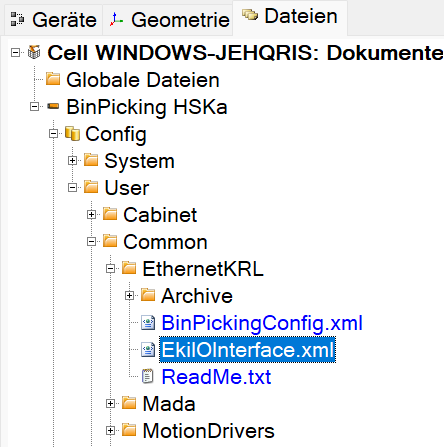
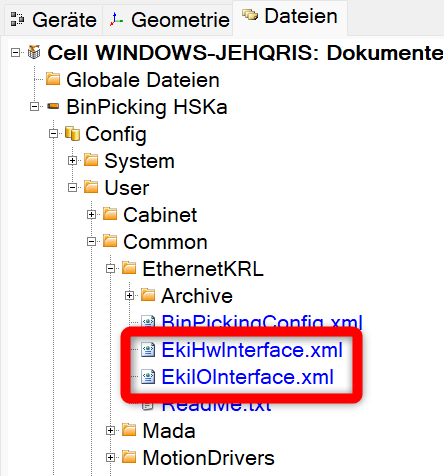
Aktualisiere das Bild 20240220_EKI_Baum.png

Changed region(s): [[0.0293, 0.0872, 1.0, 0.9888], [0.0293, 0.0291, 0.527, 0.0582], [0.5563, 0.0, 0.7613, 0.0582]]

diff --git a/docs/how_to_configure_robot_control.md b/docs/how_to_configure_robot_control.md
@@ -45,7 +45,7 @@ The byteorder indicates how the single Bytes are stored in the controller memory
 
 The number of bytes and bits used must also be adjusted. For example, reed contacts only use one bit, while the measured value of the pressure sensor is transferred with one byte. Additionally, the pressure sensor also uses individual bits. The number of bits can be adjusted by dragging the line on the right-hand side. The information on how the modules are integrated can be found in the data sheets.
 
-Once the inputs and outputs have been integrated, they still need to be created in the KUKA Smartpad. To do this, the "Long text editor" must be selected in the "Editors" tab in WorkVisual. The variable name can be entered here in the previously assigned position. Once the programm has been uploaded to the controller, the created variables are visible and can be read or controlled.
+Once the inputs and outputs have been integrated, they still need to be created in the KUKA Smartpad. To do this, the "Long text editor" must be selected in the "Editors" tab in WorkVisual. The variable name can be entered here in the previously assigned position. Once the programme has been uploaded to the controller, the created variables are visible and can be read or controlled.
 Below you can find an example of the long text editor for the digital outputs below.
 
 <img src="../images/240215_lontext_editor.png" width="900">
@@ -68,7 +68,7 @@ EKI offers the following options:
 
 To use EthernetKRL, the software package must first be installed on the robot controller. You can read about this in chapter 4 of the [KUKA EKI documentation](https://hskarlsruhede.sharepoint.com/:b:/s/Robolab/ET_KrUUq_xJKnf7MTesLJNUBsFdrSCsVxshHmyi3J7YznA?e=GNgcrq) on MS Teams. The network connection must also be set up via the KLI interface of the robot controller, as described in chapter 5. Next, one or more Ethernet connections must be configured via an XML file, which must be saved in the robot controller's _C:\KRC\ROBOTER\Config\User\Common\EthernetKRL_ directory.
 
-The EKI file _"EkiIOInterface.xml"_ is used in this project, as shown in the following structure tree.
+The EKI files "_EkiIOInterface.xml_" and "_EkiHwInterface_" are used in this project. EkiIOInterface.xml is used for controlling the gripper, EkiHwInterface is used to control the robot axes.
 
 <img src="../images/20240220_EKI_Baum.png" width="300">
 
@@ -84,13 +84,19 @@ The most important components of the EKI files used can be described as follows:
 | `<RECEIVE>...</RECEIVE>`             | Configuration of reception structure received by robot controller |
 | `<SEND>...</SEND>`                   | Configuration of transmission structure sent by robot controller  |
 
-Finally, a KRL programme must be written to control the data transfer. The Ethernet connection can be initialised with the **EKI_Init()** function and opened with the **EKI_Open()** function. Data can be sent and received with the **EKI_Send()** and **EKI_Get...()** functions. The Ethernet connection can be closed with the **EKI_Close()** function and deleted with the **EKI_Clear()** function. The **EKI_Check()** function can be used to check and handle errors. Chapter 7 of the document contains some programme examples for various use cases.
+### Configuration of KRL files
 
-The KRL programme used can be described as follows:
+A KRL programme must be written to control the data transfer. The Ethernet connection can be initialised with the **EKI_Init()** function and opened with the **EKI_Open()** function. Data can be sent and received with the **EKI_Send()** and **EKI_Get...()** functions. The Ethernet connection can be closed with the **EKI_Close()** function and deleted with the **EKI_Clear()** function. The **EKI_Check()** function can be used to check and handle errors. Chapter 7 of the document contains some programme examples for various use cases.
 
-- ```shell
-    DEF kuka_eki_hw()
-    ```
+In this project the source file "_kuka_eki_hw.src_" and data file "_kuka_eki_hw.dat_" in the folder "_ros2_driver_" is used.
+
+.src files contain the actual robot code, including the movement and operating instructions. They are created directly by the programmer and contain the executable commands for the robot. On the other hand, .dat files contain configuration and data details such as hardware settings, user parameters or communication structures. They are used to store information that is required by the robot programme but are not executable instructions.
+
+<img src="../images/20240220_KRL_Baum.png" width="300">
+
+The **source file** used can be described as follows:
+
+- ```DEF kuka_eki_hw()```:
 
     Several variables are declared that are used for control and communication with the hardware.
 
@@ -104,62 +110,30 @@ The KRL programme used can be described as follows:
 
     The loop runs indefinitely, which means that the function continuously waits for new commands and events and reacts accordingly.  
 
-- ```shell
-    def eki_hw_iface_init()
-    ```
+- ```def eki_hw_iface_init()```: Initialisation of the hardware interface (eki_hw_interface). Interrupts are set up to react to events such as the disconnection of a client connection and a connection to the eki_hw_interface socket is established.
 
-    teasfada
+- ```def eki_io_iface_init()```: Initialisation of the I/O interface (eki_io_interface). Similar to the hardware interface, interrupts are set up and a connection to the I/O interface is established.
 
-- ```shell
-    def eki_io_iface_init()
-    ```
+- ```def eki_io_iface_send()```: Transmission of data via the I/O interface. The current states of the I/O pins are queried and sent to the eki_io_interface server to enable the control and monitoring of inputs and outputs.
 
-    asdasd
+- ```def eki_hw_iface_send()```: Transmission of the current states of the robot axes via the hardware interface. The current positions, speeds and efforts of the axes are loaded into an XML structure and sent to the server.
 
-- ```shell
-    def eki_io_iface_send()
-    ```
+- ```deffct int eki_hw_iface_available()```: Check if new commands are available for the robot axis. This function checks the buffer for new commands and returns the number of available elements.
 
-    asdasd
+- ```deffct int eki_hw_iface_get(joint_pos_cmd :out)``` and ```shell
+    deffct int eki_io_iface_get()```: Reading the latest commands from the buffers of the hardware or I/O interface. The target positions of the robot axis or the states of the I/O pins are updated according to the commands received.
 
-- ```shell
-    def eki_hw_iface_send()
-    ```
+- ```def set_io_values()```: This function updates the output states of the I/O pins based on the commands (io_cmd) that were previously received. A loop is run through to iterate over all existing I/O pins. If a valid command is available (different from -1), the output of the corresponding pin is set according to the command. The loop runs until the output has been successfully set to ensure that the command has been processed correctly.
 
-    asdasd
+- ```def eki_hw_iface_reset()```:This function is called to reset the hardware interface (eki_hw_interface). All existing data in the buffer of the interface is first deleted (eki_clear), then the interface is reinitialised (eki_init) and opened (eki_open) to make it ready for operation again.
 
-- ```shell
-    deffct int eki_hw_iface_available()
-    ```
+- ```def eki_io_iface_reset()```: Similar to the eki_hw_iface_reset() function, the I/O interface (eki_io_interface) is reset here. First, all existing data in the buffer of the interface is deleted, then the interface is reinitialised and opened.
 
-    asdasd
+The code of the **data file** used can be described as follows:
 
-- ```shell
-    deffct int eki_hw_iface_get(joint_pos_cmd :out)
-    ```
-
-    asdasd
-
-- ```shell
-    deffct int eki_io_iface_get()
-    ```
-
-    asdasd
-
-- ```shell
-    def set_io_values()
-    ```
-
-    asdasd
-
-- ```shell
-    def eki_hw_iface_reset()
-    ```
-
-    asdasd
-
-- ```shell
-    def eki_io_iface_reset()
-    ```
-
-    asdasd
+- ``&ACCESS RVP``: This is an instruction that specifies that the RVP (robot visualisation and programming) functions are to be accessed. The RVP is a part of the KUKA software that is used for programming and visualising robots.
+- ``DEFDAT kuka_eki_hw``: This defines a data structure with the name "kuka_eki_hw". This data structure is used to store information about the hardware inputs and outputs.
+- ``ext bas(bas_command :in, real :in)``: This line defines an external interface called "bas", which is used to send commands to the robot's basic controller. In this case, the interface takes two arguments: a command (bas_command) of type "in" and a real number (real) of type "in".
+- ``decl int io_pins[2]``: Two arrays named "io_pins" and "io_types" are declared here. These arrays are used to store information about the input and output pins. As they are both declared as "int", they are used for integers.
+- ``decl int io_types[2]``: This declares another array, "io_types", which is used to store information about the types of the input and output pins.
+- ``decl int io_cmd[2]``: Finally, an array "io_cmd" is declared, which is used to store commands for the inputs and outputs.
